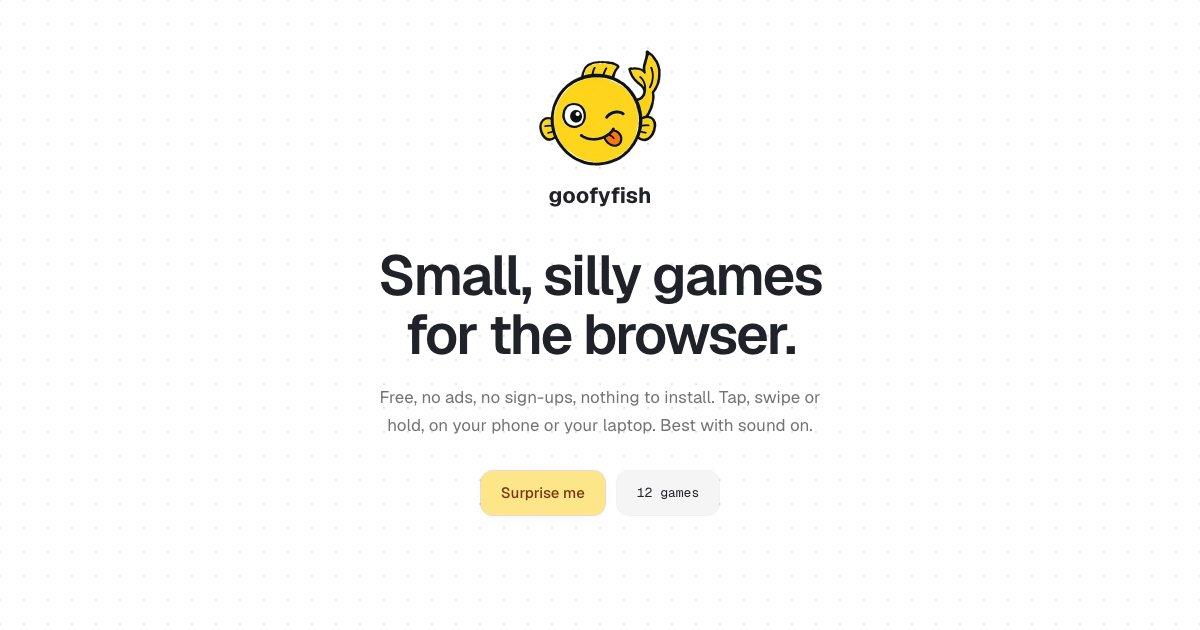
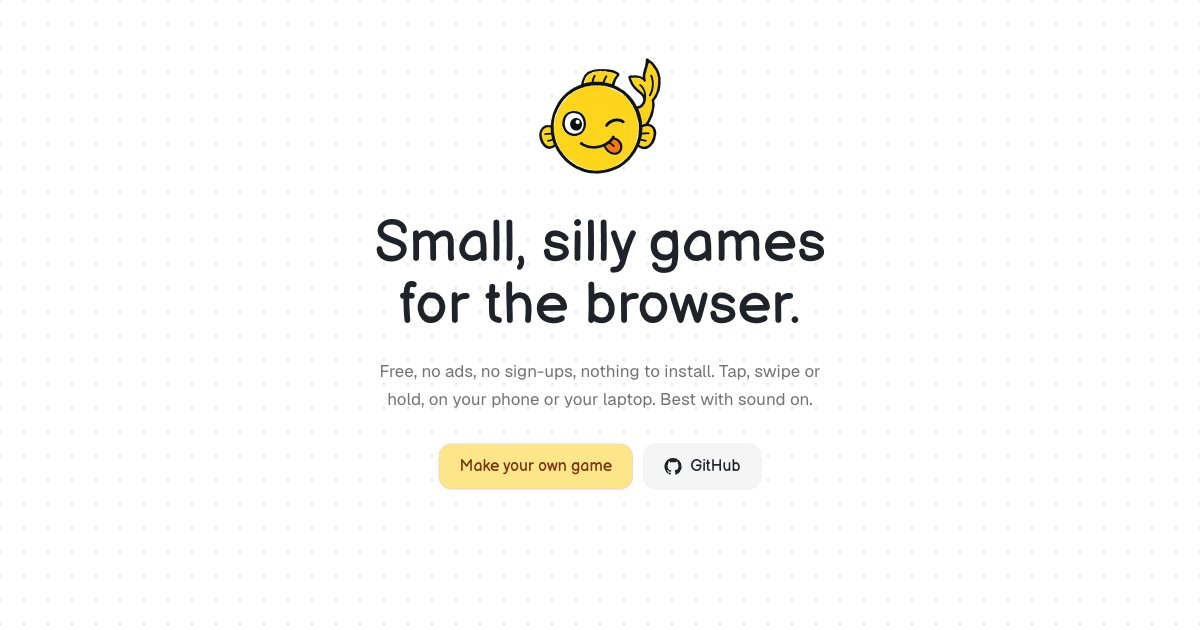
Add make page, Balsamiq headings, GitHub link

Changed region(s): [[0.3083, 0.0905, 0.7092, 0.8444]]

diff --git a/app/routes/make.tsx b/app/routes/make.tsx
@@ -1,0 +1,161 @@
+import { useState, type ReactNode } from 'react';
+import { Link } from 'react-router';
+import type { Route } from './+types/make';
+import { GithubIcon } from '~/components/github-icon';
+import { Logo } from '~/components/logo';
+import { SITE } from '~/lib/games';
+import { seo } from '~/lib/seo';
+
+const SKILL_PATH = '.claude/skills/make-goofyfish-game';
+const SKILL_URL = `${SITE.github}/tree/main/${SKILL_PATH}`;
+
+export function meta(_: Route.MetaArgs) {
+  return seo({
+    title: `Make your own game · ${SITE.name}`,
+    description:
+      'Every goofyfish game is one HTML file. Clone the repo, ask Claude Code to make a game with the goofyfish skill, and send a pull request.',
+    path: '/make',
+  });
+}
+
+function CopyButton(props: { text: string }) {
+  const [copied, setCopied] = useState(false);
+
+  const copy = async () => {
+    try {
+      await navigator.clipboard.writeText(props.text);
+      setCopied(true);
+      setTimeout(() => setCopied(false), 1500);
+    } catch {
+      setCopied(false);
+    }
+  };
+
+  return (
+    <button
+      type='button'
+      onClick={copy}
+      className='shrink-0 rounded-md px-2 py-1 font-mono text-[11px] text-neutral-400 transition-colors hover:bg-white hover:text-neutral-900'
+    >
+      {copied ? 'copied' : 'copy'}
+    </button>
+  );
+}
+
+function Code(props: { children: string }) {
+  return (
+    <div className='mt-3 flex items-start gap-2 rounded-xl bg-[#f5f5f4] py-2.5 pr-2 pl-4 shadow-[0_0_0_1px_rgba(0,0,0,.04)]'>
+      <pre className='min-w-0 flex-1 overflow-x-auto py-0.5 font-mono text-[13px] leading-relaxed text-neutral-800'>
+        {props.children}
+      </pre>
+      <CopyButton text={props.children} />
+    </div>
+  );
+}
+
+function Step(props: { n: number; title: string; children: ReactNode }) {
+  return (
+    <li className='relative rounded-2xl bg-white p-5 shadow-[0_0_0_1px_rgba(0,0,0,.06),0_2px_8px_rgba(0,0,0,.04)] sm:p-6'>
+      <div className='flex items-center gap-3'>
+        <span className='font-display grid size-7 shrink-0 place-items-center rounded-full bg-butter text-[15px] text-umber shadow-[0_0_0_1px_rgba(180,83,9,.18)]'>
+          {props.n}
+        </span>
+        <h2 className='font-display text-[20px] leading-tight'>{props.title}</h2>
+      </div>
+      <div className='mt-3 text-[15px] leading-relaxed text-neutral-600'>{props.children}</div>
+    </li>
+  );
+}
+
+const rules = [
+  'One input: tap, hold, swipe, or aim and let go.',
+  'A stick figure doing one physical thing: hop, stack, chop, throw.',
+  'Playing within 3 seconds, a run lasts 30 seconds to 3 minutes.',
+  'Fun for a 6-year-old and a 40-year-old.',
+  'One HTML file. No ads, no tracking, works offline.',
+];
+
+export default function Make() {
+  return (
+    <main className='mx-auto max-w-[680px] px-5 pt-10 pb-24 sm:pt-14'>
+      <Link to='/' className='inline-flex items-center gap-2 text-[14px] text-neutral-400 transition-colors hover:text-neutral-900'>
+        <span aria-hidden='true'>←</span> All games
+      </Link>
+
+      <header className='mt-10 flex flex-col items-center text-center'>
+        <Logo className='size-20' />
+        <h1 className='font-display mt-6 text-[38px] leading-[1.08] text-balance sm:text-[50px]'>Make your own game</h1>
+        <p className='mt-4 max-w-md text-[16px] leading-relaxed text-pretty text-neutral-500 sm:text-[17px]'>
+          Every game here is a single HTML file you can read. The repo comes with a Claude Code skill that knows the house
+          style, builds a game with you and gets it ready to send in.
+        </p>
+      </header>
+
+      <ol className='mt-12 flex flex-col gap-4'>
+        <Step n={1} title='Get the code'>
+          You need Node and pnpm.
+          <Code>{`git clone ${SITE.github}.git\ncd goofyfish\npnpm install`}</Code>
+        </Step>
+
+        <Step n={2} title='Ask Claude Code for a game'>
+          Open the folder in{' '}
+          <a href='https://claude.com/claude-code' className='text-neutral-900 underline decoration-neutral-300 underline-offset-2'>
+            Claude Code
+          </a>{' '}
+          and describe your idea, or ask it to pitch a few. The <span className='font-mono text-[13px]'>make-goofyfish-game</span> skill
+          picks it up, builds the game from the starter template and plays it to check it works.
+          <Code>{'claude "make a goofyfish game where you keep a balloon in the air"'}</Code>
+        </Step>
+
+        <Step n={3} title='Play it'>
+          Start the site and open your game. Try it on your phone too.
+          <Code>{'pnpm dev'}</Code>
+        </Step>
+
+        <Step n={4} title='Send it in'>
+          The skill adds the card thumbnail, the share image and the entry in the game list. Open a pull request on GitHub with a
+          screenshot. We play it, maybe suggest a tweak, and put it on the site.
+        </Step>
+      </ol>
+
+      <section className='mt-12 rounded-2xl bg-butter-soft/70 p-5 shadow-[0_0_0_1px_rgba(180,83,9,.12)] sm:p-6'>
+        <h2 className='font-display text-[20px]'>What makes a goofyfish game</h2>
+        <ul className='mt-3 flex flex-col gap-2 text-[15px] leading-relaxed text-neutral-700'>
+          {rules.map((rule) => (
+            <li key={rule} className='flex gap-2.5'>
+              <span className='mt-[9px] size-1.5 shrink-0 rounded-full bg-amber-ink/70' />
+              {rule}
+            </li>
+          ))}
+        </ul>
+        <p className='mt-4 text-[14px] leading-relaxed text-neutral-500'>
+          Not using Claude Code? The skill is plain text: read{' '}
+          <a href={`${SKILL_URL}/SKILL.md`} className='text-neutral-900 underline decoration-neutral-300 underline-offset-2'>
+            the steps
+          </a>{' '}
+          and{' '}
+          <a href={`${SKILL_URL}/references/style-guide.md`} className='text-neutral-900 underline decoration-neutral-300 underline-offset-2'>
+            the style guide
+          </a>{' '}
+          and start from the template by hand.
+        </p>
+      </section>
+
+      <div className='mt-10 flex flex-wrap items-center justify-center gap-3'>
+        <a
+          href={SKILL_URL}
+          className='font-display flex h-11 items-center gap-2 rounded-xl bg-butter px-5 text-[16px] text-umber shadow-[0_0_0_1px_rgba(180,83,9,.2),0_2px_8px_rgba(0,0,0,.04)] transition hover:bg-butter-hi active:scale-[.98]'
+        >
+          <GithubIcon className='size-[18px]' />
+          See the skill on GitHub
+        </a>
+        <Link
+          to='/'
+          className='font-display flex h-11 items-center rounded-xl bg-[#f5f5f5] px-5 text-[16px] shadow-[0_0_0_1px_rgba(0,0,0,.05)] transition hover:bg-[#ececec] active:scale-[.98]'
+        >
+          Play the games
+        </Link>
+      </div>
+    </main>
+  );
+}

diff --git a/app/routes/home.tsx b/app/routes/home.tsx
@@ -1,5 +1,6 @@
-import { Link, useNavigate } from 'react-router';
+import { Link } from 'react-router';
 import type { Route } from './+types/home';
+import { GithubIcon } from '~/components/github-icon';
 import { Logo } from '~/components/logo';
 import { games, isNew, SITE, type Game } from '~/lib/games';
 import { seo } from '~/lib/seo';
@@ -46,7 +47,7 @@ function GameCard(props: { game: Game }) {
         )}
       </div>
       <div className='px-2 pt-3 pb-2'>
-        <h2 className='text-[15.5px] leading-tight font-semibold tracking-tight sm:text-[16px]'>{game.name}</h2>
+        <h2 className='font-display text-[17px] leading-tight sm:text-[18px]'>{game.name}</h2>
         <p className='mt-1 text-[13px] leading-snug text-neutral-500'>{game.tagline}</p>
       </div>
     </Link>
@@ -54,19 +55,12 @@ function GameCard(props: { game: Game }) {
 }
 
 export default function Home() {
-  const navigate = useNavigate();
-
-  const playRandom = () => {
-    const game = games[Math.floor(Math.random() * games.length)];
-    navigate(`/${game.slug}`);
-  };
-
   return (
     <main className='mx-auto max-w-[1120px] px-4 pb-20 sm:px-8'>
       <header className='mx-auto flex max-w-2xl flex-col items-center pt-16 text-center sm:pt-24'>
         <Logo className='animate-bob size-28 sm:size-32' />
 
-        <h1 className='mt-8 text-[38px] leading-[1.05] font-semibold tracking-[-0.035em] text-balance sm:text-[56px]'>
+        <h1 className='font-display mt-8 text-[40px] leading-[1.08] text-balance sm:text-[58px]'>
           Small, silly games for the browser.
         </h1>
         <p className='mt-5 max-w-md text-[16px] leading-relaxed text-pretty text-neutral-500 sm:text-[17px]'>
@@ -74,19 +68,19 @@ export default function Home() {
           laptop. Best with sound on.
         </p>
 
-        <div className='mt-8 flex items-center gap-3'>
-          <button
-            type='button'
-            onClick={playRandom}
-            className='flex h-11 items-center gap-2 rounded-xl bg-butter px-5 text-[15px] font-medium text-umber shadow-[0_0_0_1px_rgba(180,83,9,.2),0_2px_8px_rgba(0,0,0,.04)] transition hover:bg-butter-hi active:scale-[.98]'
+        <div className='mt-8 flex flex-wrap items-center justify-center gap-3'>
+          <Link
+            to='/make'
+            className='font-display flex h-11 items-center rounded-xl bg-butter px-5 text-[16px] text-umber shadow-[0_0_0_1px_rgba(180,83,9,.2),0_2px_8px_rgba(0,0,0,.04)] transition hover:bg-butter-hi active:scale-[.98]'
           >
-            Surprise me
-          </button>
+            Make your own game
+          </Link>
           <a
-            href='#games'
-            className='flex h-11 items-center rounded-xl bg-[#f5f5f5] px-5 font-mono text-[13px] shadow-[0_0_0_1px_rgba(0,0,0,.05)] transition hover:bg-[#ececec]'
+            href={SITE.github}
+            className='font-display flex h-11 items-center gap-2 rounded-xl bg-[#f5f5f5] px-5 text-[16px] shadow-[0_0_0_1px_rgba(0,0,0,.05)] transition hover:bg-[#ececec] active:scale-[.98]'
           >
-            {games.length} games
+            <GithubIcon className='size-[18px]' />
+            GitHub
           </a>
         </div>
       </header>
@@ -101,7 +95,13 @@ export default function Home() {
       </section>
 
       <footer className='mt-20 flex flex-col items-center gap-1 text-center text-[13.5px] text-neutral-400'>
-        <span>New games every now and then.</span>
+        <span>
+          {games.length} games so far.{' '}
+          <Link to='/make' className='underline decoration-neutral-300 underline-offset-2 transition-colors hover:text-neutral-900'>
+            Add yours
+          </Link>
+          .
+        </span>
         <a href='https://kamran.fyi' className='transition-colors hover:text-neutral-900'>
           Made by Kamran Ahmed
         </a>

diff --git a/app/components/not-found.tsx b/app/components/not-found.tsx
@@ -15,11 +15,11 @@ export function NotFound(props: NotFoundProps) {
     <main className='mx-auto flex min-h-dvh max-w-md flex-col items-center justify-center px-6 text-center'>
       <title>{`${title} · Goofy Fish`}</title>
       <Logo className='size-24 rotate-12' />
-      <h1 className='mt-6 text-3xl font-semibold tracking-tight'>{title}</h1>
+      <h1 className='font-display mt-6 text-3xl'>{title}</h1>
       <p className='mt-2 text-neutral-500'>{message}</p>
       <Link
         to='/'
-        className='mt-8 inline-flex h-11 font-medium items-center rounded-xl bg-butter px-5 text-umber shadow-[0_0_0_1px_rgba(180,83,9,.2),0_2px_8px_rgba(0,0,0,.04)] transition-colors hover:bg-butter-hi'
+        className='font-display mt-8 inline-flex h-11 items-center rounded-xl bg-butter px-5 text-umber shadow-[0_0_0_1px_rgba(180,83,9,.2),0_2px_8px_rgba(0,0,0,.04)] transition-colors hover:bg-butter-hi'
       >
         Back to the games
       </Link>

diff --git a/app/components/github-icon.tsx b/app/components/github-icon.tsx
@@ -1,0 +1,11 @@
+type GithubIconProps = {
+  className?: string;
+};
+
+export function GithubIcon(props: GithubIconProps) {
+  return (
+    <svg viewBox='0 0 24 24' fill='currentColor' className={props.className} aria-hidden='true'>
+      <path d='M12 .5C5.65.5.5 5.65.5 12a11.5 11.5 0 0 0 7.86 10.92c.58.1.79-.25.79-.56v-2c-3.2.7-3.87-1.37-3.87-1.37-.52-1.33-1.28-1.69-1.28-1.69-1.04-.71.08-.7.08-.7 1.15.08 1.76 1.19 1.76 1.19 1.03 1.76 2.69 1.25 3.35.96.1-.75.4-1.25.73-1.54-2.55-.29-5.24-1.28-5.24-5.69 0-1.26.45-2.29 1.19-3.1-.12-.29-.52-1.46.11-3.05 0 0 .97-.31 3.17 1.18a11 11 0 0 1 5.77 0c2.2-1.49 3.17-1.18 3.17-1.18.63 1.59.23 2.76.11 3.05.74.81 1.19 1.84 1.19 3.1 0 4.42-2.7 5.4-5.26 5.68.41.36.78 1.06.78 2.14v3.17c0 .31.21.67.8.56A11.5 11.5 0 0 0 23.5 12C23.5 5.65 18.35.5 12 .5Z' />
+    </svg>
+  );
+}

diff --git a/app/root.tsx b/app/root.tsx
@@ -13,6 +13,9 @@ export const links: Route.LinksFunction = () => [
   { rel: 'apple-touch-icon', href: '/apple-touch-icon.png' },
   { rel: 'preload', href: '/fonts/geist-variable.woff2', as: 'font', type: 'font/woff2', crossOrigin: 'anonymous' },
   { rel: 'preload', href: '/fonts/geist-mono-variable.woff2', as: 'font', type: 'font/woff2', crossOrigin: 'anonymous' },
+  { rel: 'preconnect', href: 'https://fonts.googleapis.com' },
+  { rel: 'preconnect', href: 'https://fonts.gstatic.com', crossOrigin: 'anonymous' },
+  { rel: 'stylesheet', href: 'https://fonts.googleapis.com/css2?family=Balsamiq+Sans:wght@400&display=swap' },
 ];
 
 function Analytics() {

diff --git a/app/routes/sitemap.ts b/app/routes/sitemap.ts
@@ -1,7 +1,7 @@
 import { games, SITE } from '~/lib/games';
 
 export function loader() {
-  const paths = ['/', ...games.map((g) => `/${g.slug}`)];
+  const paths = ['/', '/make', ...games.map((g) => `/${g.slug}`)];
   const urls = paths.map((p) => `  <url><loc>${new URL(p, SITE.url).href}</loc></url>`).join('\n');
   const xml = `<?xml version="1.0" encoding="UTF-8"?>\n<urlset xmlns="http://www.sitemaps.org/schemas/sitemap/0.9">\n${urls}\n</urlset>\n`;
 

diff --git a/app/app.css b/app/app.css
@@ -17,6 +17,7 @@
 @theme {
   --font-sans: 'Geist', ui-sans-serif, system-ui, sans-serif;
   --font-mono: 'Geist Mono', ui-monospace, monospace;
+  --font-display: 'Balsamiq Sans', 'Comic Sans MS', ui-rounded, system-ui, sans-serif;
 
   --color-ink: #1f2329;
   --color-butter: #fde68a;

diff --git a/app/routes.ts b/app/routes.ts
@@ -3,5 +3,6 @@ import { type RouteConfig, index, route } from '@react-router/dev/routes';
 export default [
   index('routes/home.tsx'),
   route('sitemap.xml', 'routes/sitemap.ts'),
+  route('make', 'routes/make.tsx'),
   route(':slug', 'routes/game.tsx'),
 ] satisfies RouteConfig;

diff --git a/react-router.config.ts b/react-router.config.ts
@@ -3,5 +3,5 @@ import { games } from './app/lib/games';
 
 export default {
   ssr: false,
-  prerender: ['/', '/404', '/sitemap.xml', ...games.map((g) => `/${g.slug}`)],
+  prerender: ['/', '/make', '/404', '/sitemap.xml', ...games.map((g) => `/${g.slug}`)],
 } satisfies Config;

diff --git a/app/lib/games.ts b/app/lib/games.ts
@@ -15,6 +15,7 @@ export const SITE = {
   description:
     'Small, silly games that run in your browser. Free, no ads, no sign-ups, no downloads. Best with sound on.',
   twitter: '@nilbuild',
+  github: 'https://github.com/nilbuild/goofyfish',
 };
 
 const allGames: Game[] = [

diff --git a/README.md b/README.md
@@ -20,7 +20,11 @@ pnpm preview   # serve build/client on :4173
 
 ## Adding a game
 
-1. Drop the game in `public/games/<slug>.html`. Keep it self-contained, link back with `<a class="back" href="/" target="_top">← all games</a>`.
+The easy way: open the repo in [Claude Code](https://claude.com/claude-code) and ask for a game. The `make-goofyfish-game` skill in `.claude/skills/` pitches ideas, builds the game from its starter template in the house style, makes the thumbnail and social image, registers it and prepares a pull request. The same steps are on [goofyfish.com/make](https://goofyfish.com/make).
+
+By hand:
+
+1. Copy `.claude/skills/make-goofyfish-game/template.html` to `public/games/<slug>.html` and build the game. Follow `references/style-guide.md` in the same folder.
 2. Add `public/og/<slug>.jpg` (1200×630) and a thumbnail `public/thumbs/<slug>.webp` (transparent, ~640px, stick-figure style like the others).
 3. Add an entry to `app/lib/games.ts` with today's date as `addedAt`. The newest date gets the "New" badge.
 
